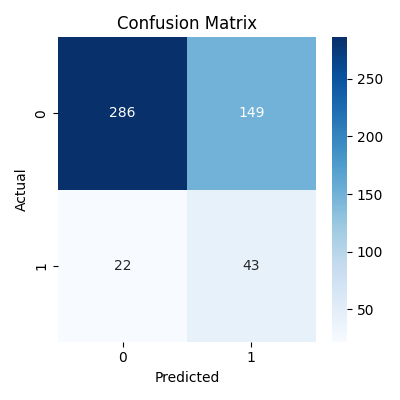
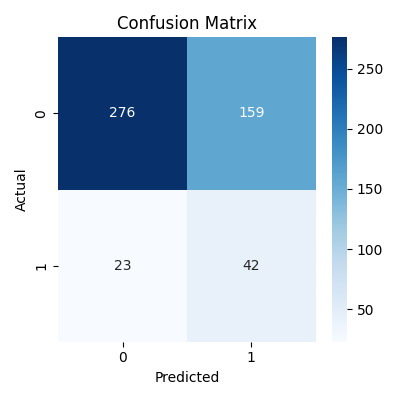
Tested model on new data and made some feature changes

diff --git a/Week_6/src/training/tuning_grid.py b/Week_6/src/training/tuning_grid.py
@@ -1,8 +1,8 @@
 import pandas as pd
 import json
 import logging
+import joblib
 from pathlib import Path
-
 from sklearn.linear_model import LogisticRegression
 from sklearn.model_selection import GridSearchCV, StratifiedKFold
 
@@ -60,6 +60,17 @@ def main():
         "best_params": grid.best_params_,
         "best_roc_auc": grid.best_score_
     }
+
+    joblib.dump(grid.best_estimator_, Path("src/models/best_model.pkl"))
+    best_model = LogisticRegression(
+    **grid.best_params_,
+    max_iter=1000,
+    class_weight="balanced",
+    solver="liblinear"
+)
+    best_model.fit(X, y)
+    joblib.dump(best_model, Path("src/models/best_model.pkl"))
+
     with open(TUNING_PATH / "grid_results.json", "w") as f:
         json.dump(results, f, indent=2)
     logger.info(f"Best ROC-AUC: {grid.best_score_:.4f}")

diff --git a/Week_6/src/pipelines/data_pipeline.py b/Week_6/src/pipelines/data_pipeline.py
@@ -1,7 +1,6 @@
 import pandas as pd
 import logging
 from pathlib import Path
-from datetime import datetime
 import numpy as np
 
 RAW_DATA_PATH = Path("src/data/raw/raw.csv")

diff --git a/Week_6/src/features/build_features.py b/Week_6/src/features/build_features.py
@@ -1,5 +1,4 @@
 import pandas as pd
-import numpy as np
 import logging
 from pathlib import Path
 from sklearn.model_selection import train_test_split
